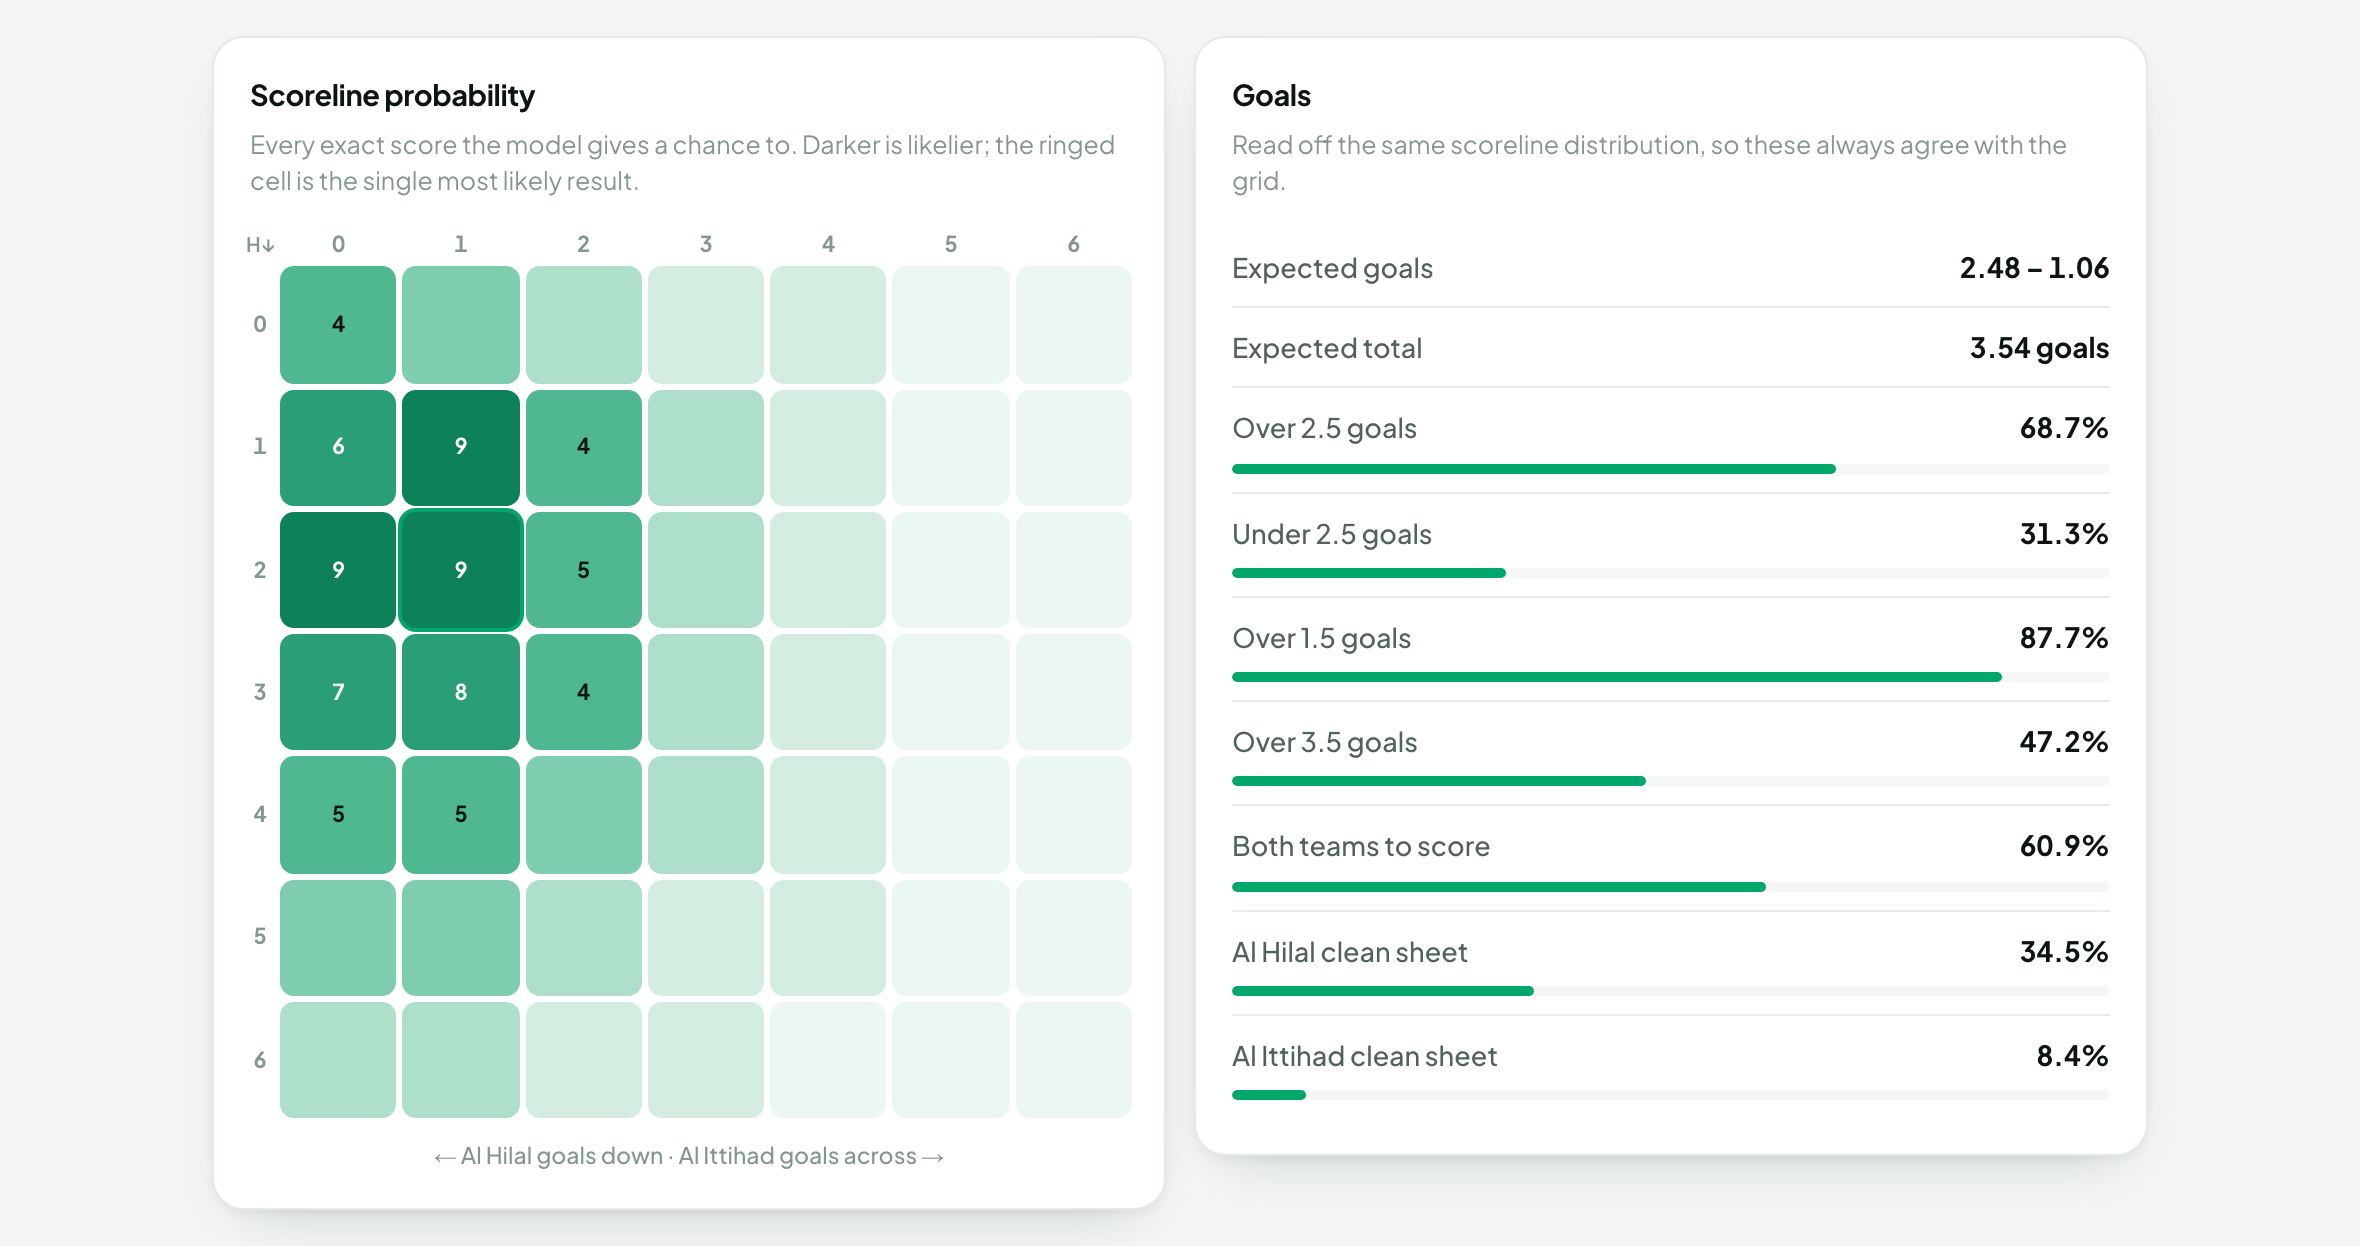
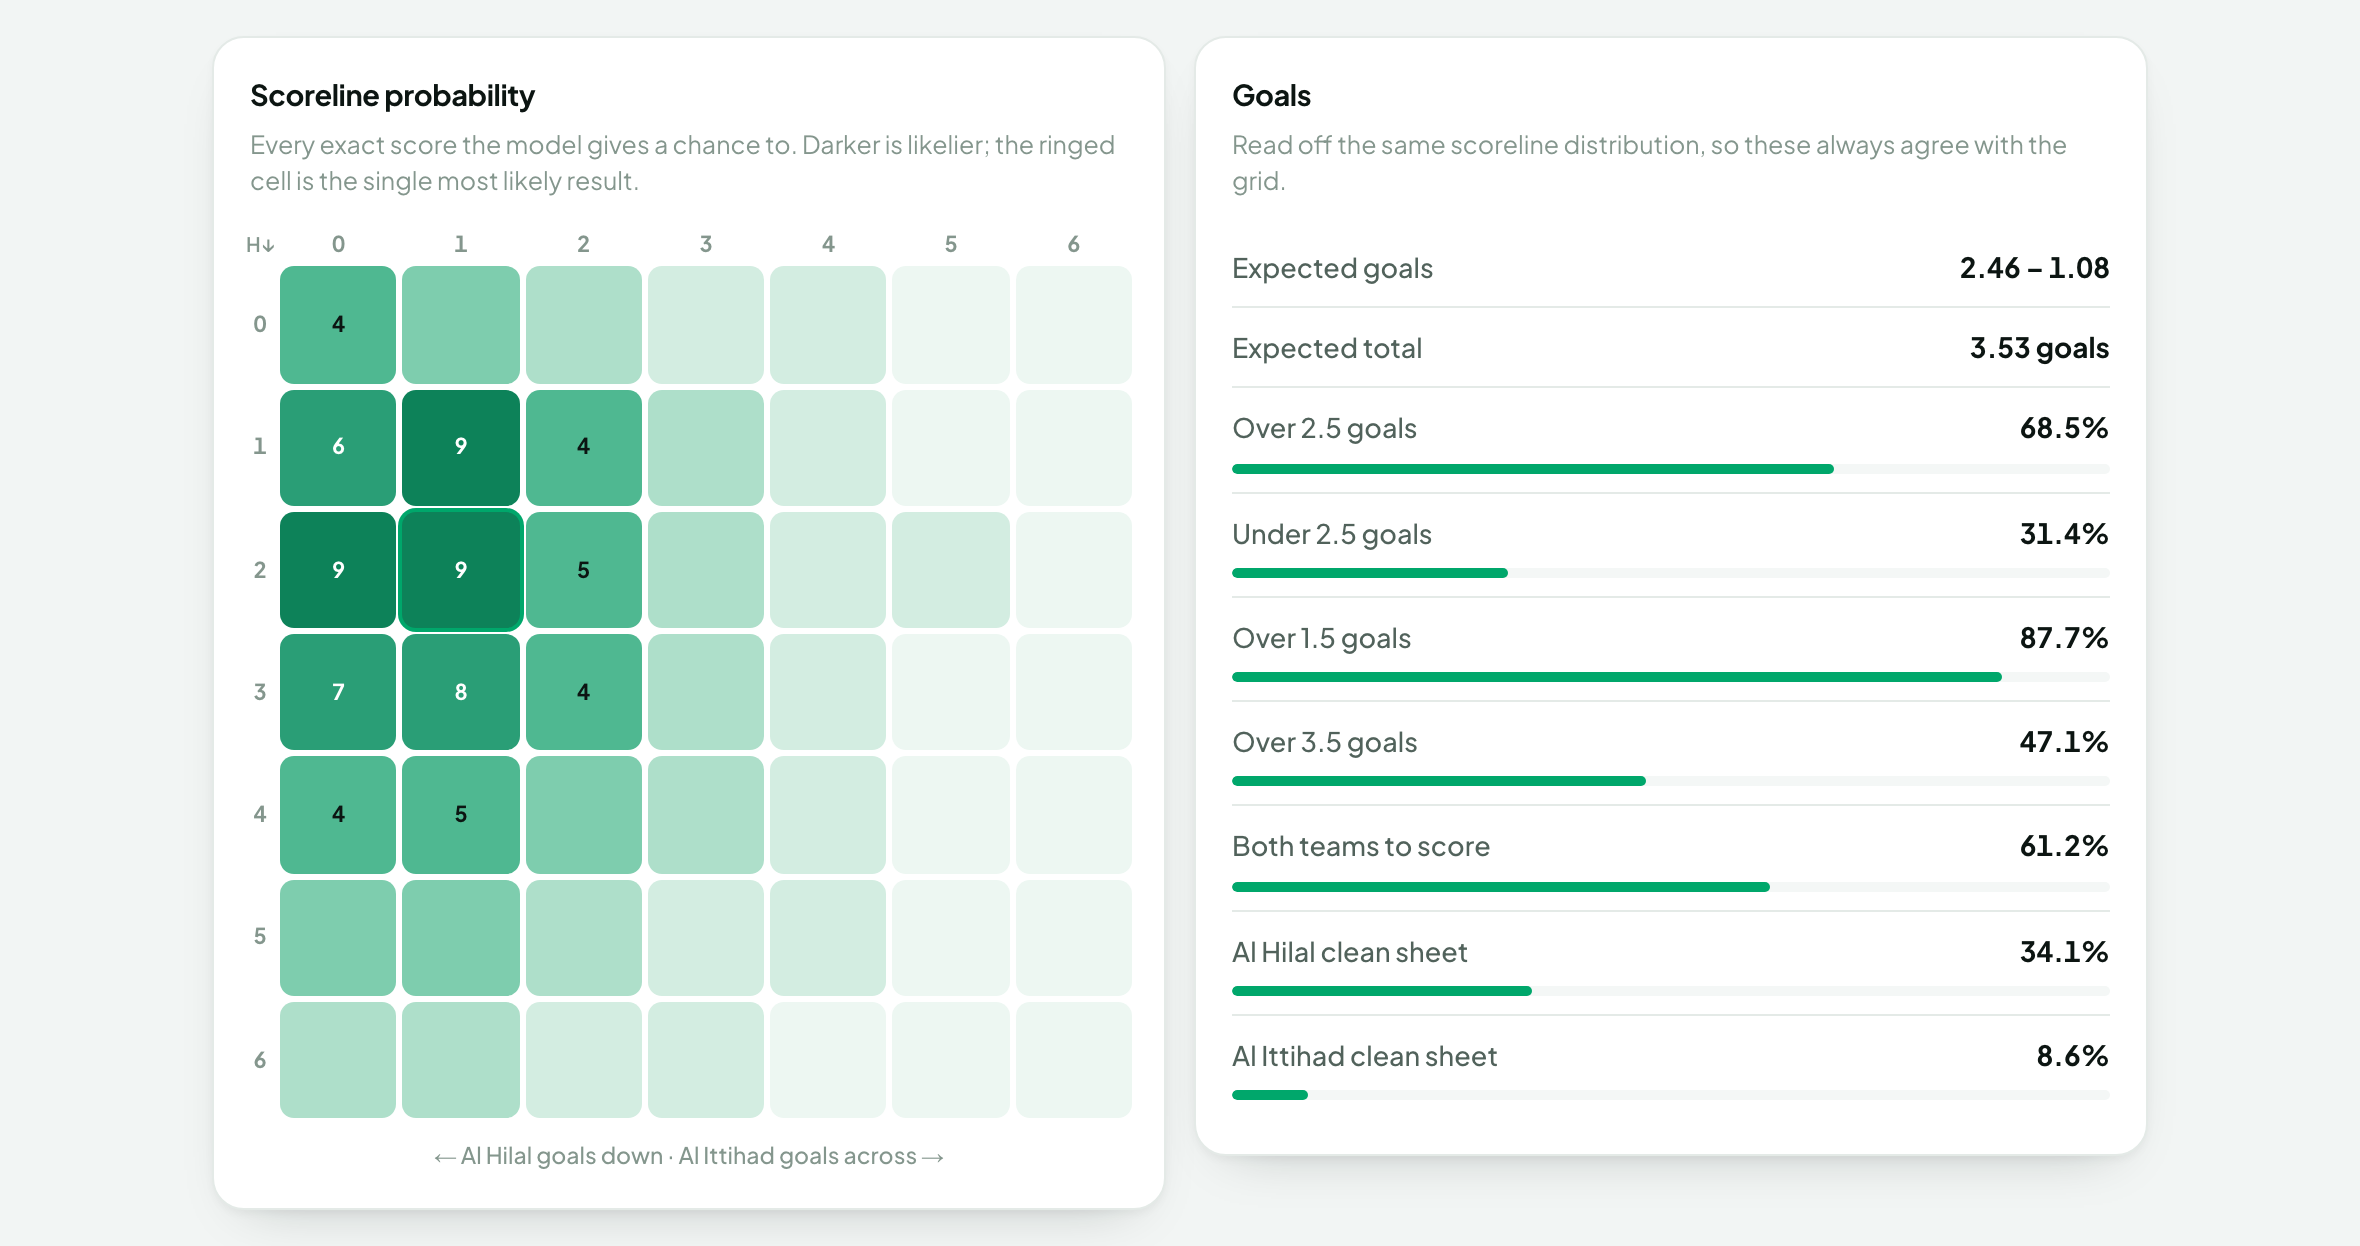
Fix three bugs: head-to-head units, self-fixtures, unjudgeable metrics
Head to head compared quantities in different units. The observed figure is a
goal difference, but the one it was measured against, `lin_h - lin_a`, is a
difference of LOG goal rates. For Al Hilal against Al Ittihad that meant
comparing 0.58 goals with 0.86 log-units. The error is not uniform: log rates
compress as the gap widens, so the model's own expectation was understated
most for the strongest favourites, and the adjustment leaned their way. Both
sides of the comparison are now goal differences.

A club could be predicted against itself. The web UI guarded this, the model
did not, so the command line printed "Al Hilal win 41.3%" directly above
"Al Hilal win 33.8%". The guard now sits in the predictor, where every caller
gets it, and the CLI reports it and exits non-zero.

The backtest reported shots and possession error with nothing to judge it
against. Both now carry a baseline: the league average for shots, an even
split for possession. The models come out 15.2% and 27.7% ahead, which is
worth knowing and was previously unknowable from the report.

Predictions shift slightly, so the exported data and the screenshots are
regenerated. 197 tests.

Changed region(s): [[0.3712, 0.3965, 0.4331, 0.5185], [0.8661, 0.6709, 0.897, 0.7014]]

diff --git a/tests/test_model.py b/tests/test_model.py
@@ -4,6 +4,7 @@ from __future__ import annotations
 
 import math
 import unittest
+from pathlib import Path
 from datetime import datetime, timedelta, timezone
 
 import numpy as np
@@ -565,3 +566,136 @@ class TestDataVintageHonesty(unittest.TestCase):
         pred = self._pred(7, injuries=True)
         self.assertTrue(pred.injuries_available)
         self.assertNotIn("no injury feed", render(pred))
+
+
+class TestHeadToHeadUnits(unittest.TestCase):
+    """The h2h term compares an observed goal difference against the one the
+    ratings imply. Both must be in goals: `lin_h`/`lin_a` are LOG rates, so
+    comparing them directly to a goal difference is incoherent."""
+
+    def _feats(self, weighted_gd, meetings=6):
+        f = Predictor(DS).predict(sorted(DS.teams)[0], sorted(DS.teams)[1]).features
+        f.h2h.meetings = meetings
+        f.h2h.weighted_gd = weighted_gd
+        return f
+
+    def test_no_adjustment_when_history_matches_the_model(self):
+        p = Predictor(DS)
+        home, away = sorted(DS.teams)[0], sorted(DS.teams)[1]
+        base = p.predict(home, away, apply_injuries=False)
+        implied_goals = base.lam_home - base.lam_away
+        feats = self._feats(implied_goals)
+        rates = M.goal_rates(p.ratings, home, away, feats, apply_injuries=False)
+        self.assertAlmostEqual(rates.components.get("h2h", 0.0), 0.0, delta=0.02)
+
+    def test_history_kinder_than_the_model_favours_the_home_side(self):
+        p = Predictor(DS)
+        home, away = sorted(DS.teams)[0], sorted(DS.teams)[1]
+        base = p.predict(home, away, apply_injuries=False)
+        implied = base.lam_home - base.lam_away
+        better = M.goal_rates(p.ratings, home, away, self._feats(implied + 2.0),
+                              apply_injuries=False)
+        worse = M.goal_rates(p.ratings, home, away, self._feats(implied - 2.0),
+                             apply_injuries=False)
+        self.assertGreater(better.components["h2h"], 0.0)
+        self.assertLess(worse.components["h2h"], 0.0)
+        self.assertGreater(better.lam_home, worse.lam_home)
+
+    def test_the_comparison_is_made_in_goals_not_log_rates(self):
+        """Regression: using `lin_h - lin_a` understates what the ratings imply,
+        and most for the biggest favourites."""
+        src = (Path(__file__).resolve().parent.parent / "spl" / "model.py").read_text()
+        block = src[src.index("if feats.h2h.meetings >= 3"):]
+        block = block[:block.index("lam_h = float")]
+        self.assertIn("np.exp(lin_h) - np.exp(lin_a)", block)
+        self.assertNotIn("implied = (lin_h - lin_a)", block)
+
+    def test_few_meetings_means_no_adjustment(self):
+        p = Predictor(DS)
+        home, away = sorted(DS.teams)[0], sorted(DS.teams)[1]
+        rates = M.goal_rates(p.ratings, home, away, self._feats(3.0, meetings=2),
+                             apply_injuries=False)
+        self.assertNotIn("h2h", rates.components)
+
+    def test_adjustment_is_bounded_by_its_weight(self):
+        p = Predictor(DS)
+        home, away = sorted(DS.teams)[0], sorted(DS.teams)[1]
+        for gd in (-9.0, -3.0, 0.0, 3.0, 9.0):
+            rates = M.goal_rates(p.ratings, home, away, self._feats(gd),
+                                 apply_injuries=False)
+            self.assertLessEqual(abs(rates.components["h2h"]), 0.12 + 1e-9)
+
+
+class TestSelfFixtureRejected(unittest.TestCase):
+    """A club cannot play itself. The web UI guarded this; the model did not,
+    so the CLI happily printed "Al Hilal win 41%" against "Al Hilal win 34%"."""
+
+    def test_predict_rejects_it(self):
+        p = Predictor(DS)
+        tid = sorted(DS.teams)[0]
+        with self.assertRaises(ValueError) as ctx:
+            p.predict(tid, tid)
+        self.assertIn("cannot play itself", str(ctx.exception))
+
+    def test_the_message_names_the_club(self):
+        p = Predictor(DS)
+        tid = sorted(DS.teams)[0]
+        with self.assertRaises(ValueError) as ctx:
+            p.predict(tid, tid)
+        self.assertIn(DS.teams[tid], str(ctx.exception))
+
+    def test_predict_by_name_rejects_two_spellings_of_one_club(self):
+        p = Predictor(DS)
+        name = DS.teams[sorted(DS.teams)[0]]
+        with self.assertRaises(ValueError):
+            p.predict_by_name(name, name)
+
+    def test_normal_fixtures_are_unaffected(self):
+        p = Predictor(DS)
+        ids = sorted(DS.teams)
+        self.assertIsNotNone(p.predict(ids[0], ids[1]))
+
+    def test_cli_exits_non_zero(self):
+        from spl import cli
+        args = cli.build_parser().parse_args(
+            ["predict", "--home", DS.teams[sorted(DS.teams)[0]],
+             "--away", DS.teams[sorted(DS.teams)[0]]])
+        import io
+        import contextlib
+        err = io.StringIO()
+        with contextlib.redirect_stderr(err):
+            with contextlib.redirect_stdout(io.StringIO()):
+                original = cli.Dataset.load
+                cli.Dataset.load = staticmethod(lambda *a, **k: DS)
+                try:
+                    code = cli.cmd_predict(args)
+                finally:
+                    cli.Dataset.load = original
+        self.assertEqual(code, 2)
+        self.assertIn("cannot play itself", err.getvalue())
+
+
+class TestBacktestBaselines(unittest.TestCase):
+    """MAE figures mean nothing without something to beat."""
+
+    result = None
+
+    @classmethod
+    def setUpClass(cls):
+        from spl.backtest import backtest
+        cls.result = backtest(DS, min_train_matches=300, refit_every=40,
+                              include_tempo=True)
+
+    def test_tempo_baselines_are_reported(self):
+        self.assertIsNotNone(self.result.baseline_mae_shots)
+        self.assertIsNotNone(self.result.baseline_mae_possession)
+
+    def test_the_models_beat_their_baselines(self):
+        self.assertLess(self.result.mae_shots, self.result.baseline_mae_shots)
+        self.assertLess(self.result.mae_possession,
+                        self.result.baseline_mae_possession)
+
+    def test_baselines_appear_in_the_report(self):
+        text = self.result.render()
+        self.assertIn("MAE shots", text)
+        self.assertIn("baseline", text)

diff --git a/spl/backtest.py b/spl/backtest.py
@@ -57,6 +57,10 @@ class BacktestResult:
     mae_goals: float = 0.0
     mae_shots: Optional[float] = None
     mae_possession: Optional[float] = None
+    #: same errors for "always predict the league average", so the figures above
+    #: can be judged rather than just read
+    baseline_mae_shots: Optional[float] = None
+    baseline_mae_possession: Optional[float] = None
     baseline_log_loss: float = 0.0
     baseline_rps: float = 0.0
     calibration: List[Tuple[str, int, float, float]] = field(default_factory=list)
@@ -75,10 +79,17 @@ class BacktestResult:
              "  Brier (3-way)          %.4f" % self.brier,
              "  outcome accuracy       %.1f%%" % (100.0 * self.accuracy),
              "  MAE expected goals     %.3f goals/side" % self.mae_goals]
-        if self.mae_shots is not None:
-            L.append("  MAE shots              %.2f shots/side" % self.mae_shots)
-        if self.mae_possession is not None:
-            L.append("  MAE possession         %.2f pp" % self.mae_possession)
+        def _vs(label, got, base, unit):
+            if got is None:
+                return
+            if base:
+                L.append("  %-22s %.2f %s   baseline %.2f   %+.1f%%"
+                         % (label, got, unit, base,
+                            -100.0 * (got - base) / max(base, EPS)))
+            else:
+                L.append("  %-22s %.2f %s" % (label, got, unit))
+        _vs("MAE shots", self.mae_shots, self.baseline_mae_shots, "shots/side")
+        _vs("MAE possession", self.mae_possession, self.baseline_mae_possession, "pp")
         if self.calibration:
             L.append("")
             L.append("  calibration (predicted -> observed)")
@@ -136,6 +147,8 @@ def backtest(ds: Dataset, start: Optional[datetime] = None,
     b_ll = b_rps = 0.0
     shot_err: List[float] = []
     poss_err: List[float] = []
+    shot_base: List[float] = []
+    poss_base: List[float] = []
     cal_pairs: List[Tuple[float, int]] = []
 
     ratings: Optional[M.Ratings] = None
@@ -208,12 +221,20 @@ def backtest(ds: Dataset, start: Optional[datetime] = None,
                                           rates.lam_home, rates.lam_away, cfg=cfg)
                 ah = actual.get(match.home_id)
                 aa = actual.get(match.away_id)
+                league_shots = (aux.models["shots"].league_mean
+                                if aux.has("shots") else None)
                 if ah and ah.shots is not None:
                     shot_err.append(abs(tempo.shots_home - ah.shots))
+                    if league_shots:
+                        shot_base.append(abs(league_shots - ah.shots))
                 if aa and aa.shots is not None:
                     shot_err.append(abs(tempo.shots_away - aa.shots))
+                    if league_shots:
+                        shot_base.append(abs(league_shots - aa.shots))
                 if ah and ah.possession is not None:
                     poss_err.append(abs(tempo.possession_home - ah.possession))
+                    # the only sensible naive call for possession is an even split
+                    poss_base.append(abs(50.0 - ah.possession))
         res.n += 1
 
     if res.n == 0:
@@ -228,5 +249,7 @@ def backtest(ds: Dataset, start: Optional[datetime] = None,
     res.baseline_rps = b_rps / res.n
     res.mae_shots = float(np.mean(shot_err)) if shot_err else None
     res.mae_possession = float(np.mean(poss_err)) if poss_err else None
+    res.baseline_mae_shots = float(np.mean(shot_base)) if shot_base else None
+    res.baseline_mae_possession = float(np.mean(poss_base)) if poss_base else None
     res.calibration = _calibration(cal_pairs)
     return res

diff --git a/spl/model.py b/spl/model.py
@@ -270,8 +270,13 @@ def goal_rates(ratings: Ratings, home_id: int, away_id: int,
             comp.update({"injury_home": inj_h, "injury_away": inj_a})
 
         if feats.h2h.meetings >= 3 and h2h_weight > 0:
-            # residual head-to-head bias, net of what the ratings already imply
-            implied = (lin_h - lin_a)
+            # Residual head-to-head bias, net of what the ratings already imply.
+            # Both sides of this comparison must be goal differences: `lin_h` and
+            # `lin_a` are LOG goal rates, so they have to be exponentiated first.
+            # Comparing a goal difference against a log-rate difference silently
+            # understates what the ratings imply, and does so most for the
+            # strongest favourites, biasing the adjustment in their favour.
+            implied = float(np.exp(lin_h) - np.exp(lin_a))
             observed = feats.h2h.weighted_gd
             resid = np.tanh((observed - implied) / 3.0)
             adj = h2h_weight * float(resid)

diff --git a/spl/predict.py b/spl/predict.py
@@ -88,6 +88,9 @@ class Predictor:
                 venue: Optional[str] = None,
                 neutral_venue: bool = False,
                 apply_injuries: bool = True) -> Prediction:
+        if home_id == away_id:
+            name = self.ds.teams.get(home_id, home_id)
+            raise ValueError("a club cannot play itself (%s)" % name)
         kickoff = kickoff or datetime.now(timezone.utc) + timedelta(days=3)
         feats = F.build_features(self.ds, home_id, away_id, kickoff,
                                  neutral_venue=neutral_venue)

diff --git a/spl/cli.py b/spl/cli.py
@@ -121,6 +121,9 @@ def cmd_predict(args) -> int:
     except LookupError as exc:
         print("team lookup failed: %s" % exc, file=sys.stderr)
         return 2
+    except ValueError as exc:
+        print("%s" % exc, file=sys.stderr)
+        return 2
     if args.json:
         print(json.dumps(_as_dict(pred), indent=2))
     else:
